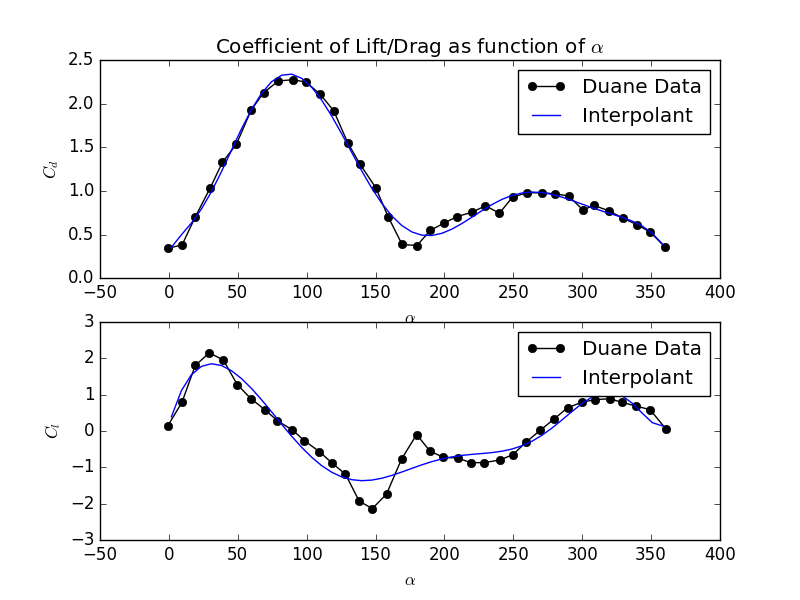
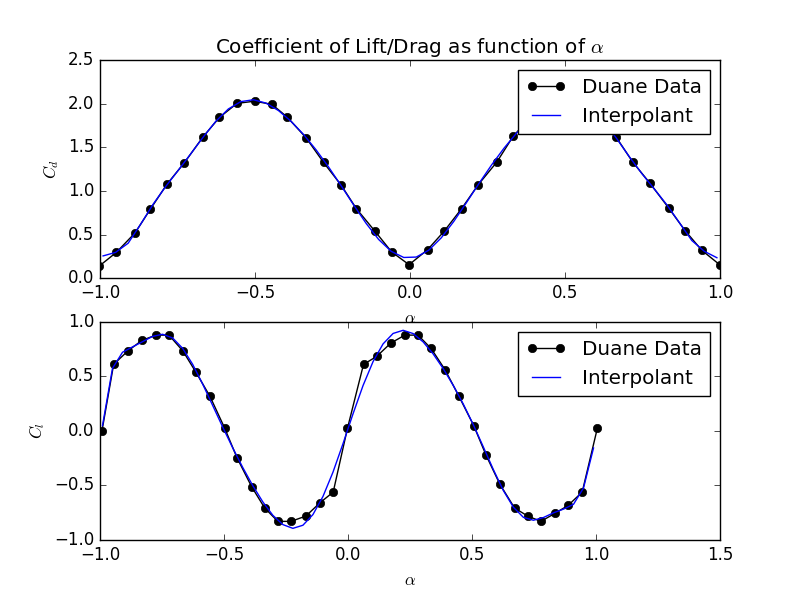
fixing axes for todd

diff --git a/disputatio/routines/drag_polars/flat.py b/disputatio/routines/drag_polars/flat.py
@@ -1,6 +1,27 @@
 import numpy as np
 import matplotlib.pyplot as plt
 
+def poly_print(c,name):
+    #
+    # prints coefficients for lift or drag functions
+    #
+    p=0
+    print ''
+    for item in c:
+        # last step
+        if(p == len(c)-1):
+            print '        '+str(item)+'*x^'+str(p)+"'",
+        # first step
+        elif(p==0):
+            print name +" = '"+str(item)+'*x^'+str(p)+" + "
+            p=p+1
+        # middle steps
+        else:
+            print '        '+str(item)+'*x^'+str(p)+" + "
+            p=p+1
+    print ''
+    return 0
+
 def reader(fl):
     #
     # reads a file and returns function values
@@ -23,10 +44,12 @@ def reader(fl):
     fo.close()
     return angle, cd
 
+
 # -----------------------
 # main function
 # -----------------------
-
+#
+# http://docs.scipy.org/doc/numpy/reference/routines.polynomials.poly1d.html
 #
 # grab original data
 #
@@ -44,35 +67,54 @@ anglecl, cl = reader(f2)
 # 
 #rad = np.linspace(0.0, 360.0)
 #
-rad    = np.linspace(-1.0, 1.0)
+
+anglecd = -1 + 2*np.array(anglecd)/360.0
+anglecl = -1 + 2*np.array(anglecl)/360.0
+
+#
+# interpolate!
+# interp1d(x, y, kind='cubic')
+#
+#from scipy.interpolate import interp1d
+from numpy.polynomial import polynomial as P
+
+inter_cd,stat_cd = P.polyfit(anglecd, cd, 16,full=True)
+inter_cl,stat_cl = P.polyfit(anglecl, cl, 16,full=True)
+
+rad    = np.linspace(-0.99, 0.99)
 t      = (rad+np.pi)%np.pi - np.pi/2.0
-anglei = (rad+1)*180.0
+#anglei = (rad+1)*180.
+anglei = rad
 
 #cdi = np.cos(2 * np.pi * rad) * np.exp(-rad)
 #cli = np.cos(2 * np.pi * rad)
 
-cli = np.where(abs(t) > np.pi/24., t, np.sin(2*t))
-cdi = np.where(abs(t) > np.pi/24., t*t*81/25., 1-0.8*np.cos(2*t))
+#cli = np.where(abs(t) > np.pi/24., t, np.sin(2*t))
+#cdi = np.where(abs(t) > np.pi/24., t*t*81/25., 1-0.8*np.cos(2*t))
+
+poly_print(inter_cl,'lift')
+poly_print(inter_cd,'drag')
 
 #
 # plot!
 #
-
 plt.subplot(2, 1, 1)
 plt.plot(anglecd, cd, 'ko-',label='Duane Data')
-plt.plot(anglei, cdi, color='blue',label='Interpolant')
+plt.plot(anglei, P.polyval(anglei,inter_cd), color='blue',label='Interpolant')
 plt.title(r'Coefficient of Lift/Drag as function of $\alpha$')
 plt.xlabel(r'$\alpha$')
 plt.ylabel(r'$C_d$')
 plt.legend()
 
+plt.xlim([-1,1])
+
 plt.subplot(2, 1, 2)
 plt.plot(anglecl, cl, 'ko-',label='Duane Data')
-plt.plot(anglei, cli, color='blue',label='Interpolant')
+plt.plot(anglei, P.polyval(anglei,inter_cl), color='blue',label='Interpolant')
 plt.ylabel(r'$C_l$')
 plt.xlabel(r'$\alpha$')
 plt.legend()
-plt.show()
+plt.savefig("flat.png")
 
 
 #

diff --git a/disputatio/routines/drag_polars/semi.py b/disputatio/routines/drag_polars/semi.py
@@ -105,6 +105,7 @@ plt.title(r'Coefficient of Lift/Drag as function of $\alpha$')
 plt.xlabel(r'$\alpha$')
 plt.ylabel(r'$C_d$')
 plt.legend()
+plt.xlim([-1,1])
 
 plt.subplot(2, 1, 2)
 plt.plot(anglecl, cl, 'ko-',label='Duane Data')
@@ -112,6 +113,7 @@ plt.plot(anglei, P.polyval(anglei,inter_cl), color='blue',label='Interpolant')
 plt.ylabel(r'$C_l$')
 plt.xlabel(r'$\alpha$')
 plt.legend()
+plt.xlim([-1,1])
 plt.savefig("semi.png")
 
 

diff --git a/disputatio/routines/drag_polars/90.py b/disputatio/routines/drag_polars/90.py
@@ -105,7 +105,7 @@ plt.title(r'Coefficient of Lift/Drag as function of $\alpha$')
 plt.xlabel(r'$\alpha$')
 plt.ylabel(r'$C_d$')
 plt.legend()
-
+plt.xlim([-1,1])
 plt.subplot(2, 1, 2)
 plt.plot(anglecl, cl, 'ko-',label='Duane Data')
 plt.plot(anglei, P.polyval(anglei,inter_cl), color='blue',label='Interpolant')
